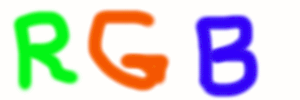
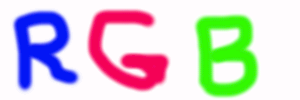
had a colour mistype issue... was doing r b g, instead of r g b :)

diff --git a/mimage/rgba-matrix-to-raw-data.go b/mimage/rgba-matrix-to-raw-data.go
@@ -42,7 +42,7 @@ func RGBAMatrixToImage(imageMatrix ImageMatrix) image.Image {
 			b := uint8(imageMatrix["b"][x][y])
 			a := uint8(imageMatrix["a"][x][y])
 
-			colour := color.RGBA{r, b, g, a}
+			colour := color.RGBA{r, g, b, a}
 
 			newImage.SetRGBA(x, y, colour)
 		}
